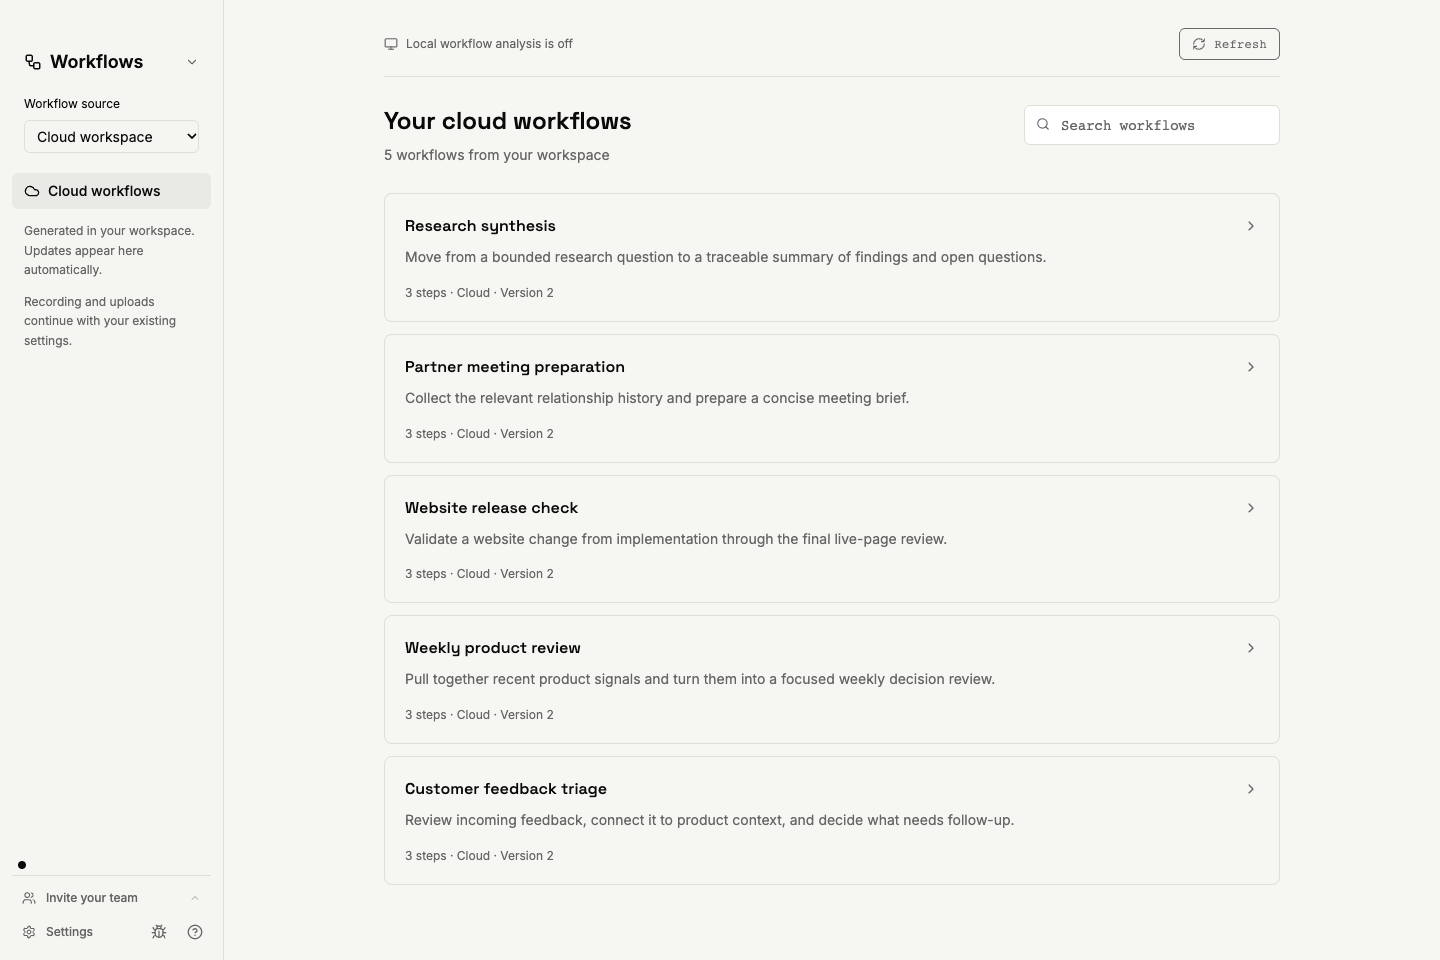
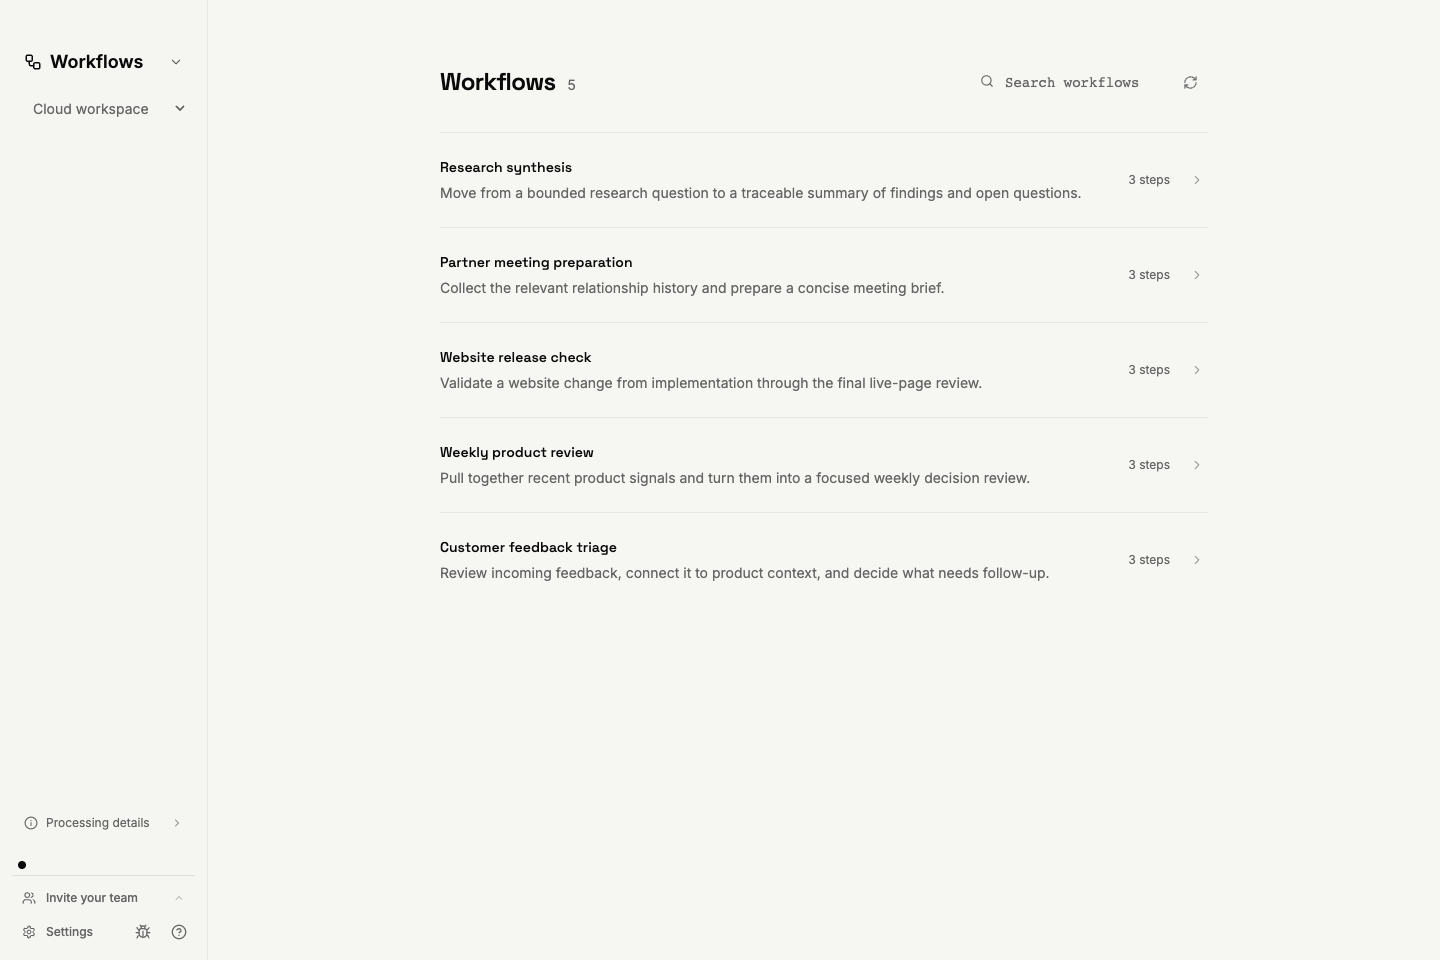
Simplify cloud workflow catalog and disclose processing details on demand

diff --git a/apps/screenpipe-app-tauri/components/workflows/cloud-workflows.tsx b/apps/screenpipe-app-tauri/components/workflows/cloud-workflows.tsx
@@ -2,7 +2,7 @@
 // https://screenpipe.com
 "use client";
 import { useEffect, useState } from "react";
-import { Cloud, RefreshCw, ArrowLeft, Search, ChevronRight, Monitor } from "lucide-react";
+import { RefreshCw, ArrowLeft, Search, ChevronRight, Info } from "lucide-react";
 import { Button } from "@/components/ui/button";
 import { Input } from "@/components/ui/input";
 import { loadCloudCatalog, type CloudWorkflowCatalog } from "@/lib/workflows/cloud-catalog";
@@ -74,36 +74,40 @@ export function CloudWorkflows({ active, token, onModeChange, recordingStatus, n
   const workflows = data?.workflows.filter(workflow => `${workflow.title} ${workflow.summary}`.toLowerCase().includes(query.toLowerCase())) ?? [];
   return <div className="ph-no-capture ph-mask relative flex h-full min-h-0 bg-background text-foreground [&_h1]:font-[family-name:var(--font-workflow-heading)] [&_h2]:font-[family-name:var(--font-workflow-heading)]">
     <div className="absolute inset-x-0 top-0 h-7" data-tauri-drag-region onMouseDown={event => { if (event.button === 0 && event.target === event.currentTarget) void getCurrentWindow().startDragging().catch(() => {}); }} />
-    <aside style={{ paddingTop: isMac && !fullscreen ? 40 : 28 }} className="flex w-56 shrink-0 flex-col border-r bg-muted/20 p-3 max-sm:w-40">
+    <aside style={{ paddingTop: isMac && !fullscreen ? 40 : 28 }} className="flex w-52 shrink-0 flex-col border-r border-border/60 bg-muted/10 p-3 max-sm:w-40">
       <ProductSwitcher mode="workflows" onChange={onModeChange} />
-      <div className="px-3 pt-3">{sourceControl}</div>
-      <div className="mt-5 flex items-center gap-2 rounded-md bg-foreground/5 px-3 py-2 text-sm font-medium"><Cloud size={16} />Cloud workflows</div>
-      <p className="px-3 pt-3 text-xs leading-relaxed text-muted-foreground">Generated in your workspace. Updates appear here automatically.</p>
-      <p className="px-3 pt-3 text-xs leading-relaxed text-muted-foreground">Recording and uploads continue with your existing settings.</p>
-      <div className="mt-auto">{recordingStatus}{navigationFooter?.({ openKeyboardShortcuts: () => setShortcuts(true) })}</div>
+      <div className="px-2 pt-2">{sourceControl}</div>
+      <div className="mt-auto">
+        <details className="group mx-2 mb-4 text-xs text-muted-foreground">
+          <summary className="flex cursor-pointer list-none items-center gap-2 rounded px-1 py-2 hover:text-foreground focus-visible:outline-none focus-visible:ring-1 focus-visible:ring-ring"><Info size={14} />Processing details<ChevronRight size={12} className="ml-auto transition-transform group-open:rotate-90" /></summary>
+          <div className="px-1 pb-2 pt-1 leading-relaxed"><p role="status">{localState === "off" ? "Local workflow analysis is off" : localState === "checking" ? "Turning off local workflow analysis…" : "Could not confirm local analysis is off"}</p><p className="mt-2">Workflows update from your cloud workspace. Recording and uploads keep your existing settings.</p></div>
+        </details>
+        {recordingStatus}{navigationFooter?.({ openKeyboardShortcuts: () => setShortcuts(true) })}
+      </div>
     </aside>
-    <main className="min-w-0 flex-1 overflow-y-auto px-8 py-7 max-sm:px-4">
-      <div className="mx-auto max-w-4xl">
-        <div className="mb-7 flex flex-wrap items-center justify-between gap-3 border-b pb-4">
-          <div className="flex items-center gap-2 text-xs text-muted-foreground" role="status"><Monitor size={14} />{localState === "off" ? "Local workflow analysis is off" : localState === "checking" ? "Turning off local workflow analysis…" : "Could not confirm local analysis is off"}</div>
-          <Button variant="outline" size="sm" disabled={loading} onClick={() => { setLocalState("checking"); setRevision(value => value + 1); }}><RefreshCw size={14} className="mr-2" />{loading ? "Refreshing…" : "Refresh"}</Button>
-        </div>
+    <main className="min-w-0 flex-1 overflow-y-auto px-10 pb-12 pt-16 max-sm:px-5">
+      <div className="mx-auto max-w-3xl">
         {localState === "error" && <div role="alert" className="mb-6 rounded-md border p-4 text-sm">Some local workflow jobs may still be running. <button className="underline" onClick={() => { setLocalState("checking"); setRevision(value => value + 1); }}>Retry stopping local analysis</button></div>}
-        {error ? <section role="alert" className="rounded-lg border p-6"><h1 className="text-xl font-semibold">Cloud workflows unavailable</h1><p className="mt-3 text-sm text-muted-foreground">{error}</p></section>
-        : loading && !data ? <p role="status">Loading cloud workflows…</p>
+        <header className="mb-8 flex flex-wrap items-center justify-between gap-4">
+          {selected ? <Button variant="ghost" size="sm" className="-ml-3" onClick={() => setSelectedId(null)}><ArrowLeft size={14} className="mr-2" />All workflows</Button> : <div className="flex items-baseline gap-3"><h1 className="text-2xl font-semibold tracking-tight">Workflows</h1>{data && !error && <span className="text-sm text-muted-foreground">{data.workflows.length}</span>}</div>}
+          <div className="flex items-center gap-2">
+            {!selected && !error && <div className="relative"><Search size={14} className="absolute left-2 top-2.5 text-muted-foreground" /><Input aria-label="Search cloud workflows" className="h-9 w-48 border-transparent bg-transparent pl-8 shadow-none placeholder:text-muted-foreground focus-visible:border-border max-sm:w-36" placeholder="Search workflows" value={query} onChange={event => setQuery(event.target.value)} /></div>}
+            <Button variant="ghost" size="icon" className="h-9 w-9 text-muted-foreground" aria-label="Refresh" title="Refresh workflows" disabled={loading} onClick={() => { setLocalState("checking"); setRevision(value => value + 1); }}><RefreshCw size={15} className={loading ? "animate-spin motion-reduce:animate-none" : ""} /></Button>
+          </div>
+        </header>
+        {error ? <section role="alert" className="py-10"><h2 className="text-base font-medium">Cloud workflows unavailable</h2><p className="mt-2 max-w-lg text-sm leading-relaxed text-muted-foreground">{error}</p></section>
+        : loading && !data ? <p role="status" className="py-10 text-sm text-muted-foreground">Loading workflows…</p>
         : selected ? <>
-          <Button variant="ghost" size="sm" className="mb-5" onClick={() => setSelectedId(null)}><ArrowLeft size={14} className="mr-2" />All workflows</Button>
-          <p className="mb-2 text-xs text-muted-foreground">Cloud workflow · Version {selected.version}</p>
-          <h1 className="text-2xl font-semibold">{selected.title}</h1>
-          <p className="mt-3 text-sm leading-relaxed text-muted-foreground">{selected.summary}</p>
-          {selected.trigger && <p className="mt-5 text-sm"><strong>Starts when: </strong>{selected.trigger}</p>}
-          <ol className="mt-7 space-y-3">{selected.steps.map((step, index) => <li key={index} className="flex gap-4 rounded-lg border p-5"><span className="text-sm text-muted-foreground">{index + 1}</span><div><h2 className="text-sm font-medium">{step.action}</h2>{step.app && <p className="mt-1 text-xs text-muted-foreground">{step.app}</p>}{step.detail && <p className="mt-3 text-sm leading-relaxed">{step.detail}</p>}{step.expected_result && <p className="mt-2 text-sm text-muted-foreground">Expected result: {step.expected_result}</p>}</div></li>)}</ol>
+          <h1 className="text-2xl font-semibold tracking-tight">{selected.title}</h1>
+          <p className="mt-3 max-w-2xl text-sm leading-relaxed text-muted-foreground">{selected.summary}</p>
+          {selected.trigger && <p className="mt-6 text-sm"><span className="text-muted-foreground">Starts when </span>{selected.trigger}</p>}
+          <ol className="mt-8 divide-y divide-border/60 border-y border-border/60">{selected.steps.map((step, index) => <li key={index} className="flex gap-5 py-6"><span className="w-4 shrink-0 pt-0.5 text-xs tabular-nums text-muted-foreground">{index + 1}</span><div><div className="flex flex-wrap items-baseline gap-x-3 gap-y-1"><h2 className="text-sm font-medium">{step.action}</h2>{step.app && <span className="text-xs text-muted-foreground">{step.app}</span>}</div>{step.detail && <p className="mt-2 text-sm leading-relaxed text-muted-foreground">{step.detail}</p>}{step.expected_result && <p className="mt-2 text-sm text-muted-foreground">Expected result: {step.expected_result}</p>}</div></li>)}</ol>
           {!selected.steps.length && <p className="mt-6 text-sm text-muted-foreground">This workflow does not have documented steps yet.</p>}
-          {selected.outcome && <p className="mt-6 text-sm"><strong>Outcome: </strong>{selected.outcome}</p>}
+          {selected.outcome && <p className="mt-6 text-sm"><span className="text-muted-foreground">Outcome </span>{selected.outcome}</p>}
+          <p className="mt-8 text-xs text-muted-foreground">Version {selected.version}</p>
         </> : <>
-          <div className="flex flex-wrap items-start justify-between gap-4"><div><h1 className="text-2xl font-semibold">Your cloud workflows</h1><p className="mt-2 text-sm text-muted-foreground">{data?.workflows.length ?? 0} workflows from your workspace</p></div><div className="relative"><Search size={14} className="absolute left-3 top-3 text-muted-foreground" /><Input aria-label="Search cloud workflows" className="w-64 pl-9 max-sm:w-full" placeholder="Search workflows" value={query} onChange={event => setQuery(event.target.value)} /></div></div>
-          <div className="mt-7 space-y-3">{workflows.map(workflow => <button key={workflow.id} onClick={() => setSelectedId(workflow.id)} className="block w-full rounded-lg border p-5 text-left transition-colors hover:bg-muted/40 focus-visible:outline-none focus-visible:ring-1 focus-visible:ring-ring"><div className="flex items-center justify-between gap-4"><h2 className="text-base font-medium">{workflow.title}</h2><ChevronRight size={16} className="shrink-0 text-muted-foreground" /></div><p className="mt-2 text-sm leading-relaxed text-muted-foreground">{workflow.summary}</p><p className="mt-4 text-xs text-muted-foreground">{workflow.steps.length} steps · Cloud · Version {workflow.version}</p></button>)}</div>
-          {!workflows.length && <section className="mt-12 text-center"><Cloud size={26} className="mx-auto text-muted-foreground" /><h2 className="mt-4 text-lg font-medium">{query ? "No matching workflows" : "No cloud workflows yet"}</h2><p className="mx-auto mt-2 max-w-md text-sm leading-relaxed text-muted-foreground">{query ? "Try another search." : "Workflows will appear after your workspace finishes analyzing uploaded activity. Your admin can check the cloud runner in the workspace."}</p></section>}
+          <div className="divide-y divide-border/60 border-t border-border/60">{workflows.map(workflow => <button key={workflow.id} onClick={() => setSelectedId(workflow.id)} className="group flex w-full items-center gap-5 py-6 text-left transition-colors hover:bg-muted/30 focus-visible:outline-none focus-visible:ring-1 focus-visible:ring-inset focus-visible:ring-ring"><div className="min-w-0 flex-1"><h2 className="text-sm font-medium">{workflow.title}</h2><p className="mt-1.5 truncate text-sm text-muted-foreground">{workflow.summary}</p></div><span className="shrink-0 text-xs tabular-nums text-muted-foreground max-sm:hidden">{workflow.steps.length ? `${workflow.steps.length} steps` : "Discovered"}</span><ChevronRight size={14} className="mr-1 shrink-0 text-muted-foreground/60 group-hover:text-foreground" /></button>)}</div>
+          {!workflows.length && <section className="py-16"><h2 className="text-base font-medium">{query ? "No matching workflows" : "No cloud workflows yet"}</h2><p className="mt-2 max-w-md text-sm leading-relaxed text-muted-foreground">{query ? "Try another search." : "Workflows will appear here after your workspace analyzes uploaded activity."}</p></section>}
         </>}
       </div>
     </main>

diff --git a/apps/screenpipe-app-tauri/components/workflows/cloud-workflows.test.tsx b/apps/screenpipe-app-tauri/components/workflows/cloud-workflows.test.tsx
@@ -14,6 +14,7 @@ it("renders cloud detail and search without any local analysis controls", async 
   render(<CloudWorkflows {...props} api={api()} />);
   fireEvent.click(await screen.findByRole('button', { name: /Review a draft/ }));
   expect(await screen.findByRole('heading', { name: 'Open sources' })).toBeVisible();
+  fireEvent.click(screen.getByText('Processing details'));
   expect(screen.getByText('Local workflow analysis is off')).toBeVisible();
   expect(screen.queryByRole('switch', { name: 'Automatic updates' })).not.toBeInTheDocument();
   fireEvent.click(screen.getByRole('button', { name: 'All workflows' }));
@@ -24,6 +25,7 @@ it("does not claim off until stopping succeeds; retries partial failure", async 
   const service = api(); vi.mocked(service.stopLocal).mockRejectedValueOnce(new Error('offline'));
   render(<CloudWorkflows {...props} api={service} />);
   fireEvent.click(await screen.findByRole('button', { name: 'Retry stopping local analysis' }));
+  fireEvent.click(screen.getByText('Processing details'));
   expect(await screen.findByText('Local workflow analysis is off')).toBeVisible();
   expect(service.stopLocal).toHaveBeenCalledTimes(2);
 });

diff --git a/apps/screenpipe-app-tauri/components/workflows/integrated-workflows.tsx b/apps/screenpipe-app-tauri/components/workflows/integrated-workflows.tsx
@@ -120,8 +120,8 @@ export function IntegratedWorkflows(props: Parameters<typeof DeviceWorkflows>[0]
     catch { setError("Could not save the workflow source. Try again."); }
     finally { setSaving(false); }
   }
-  const sourceControl = <label className="flex flex-col gap-2 text-xs">Workflow source
-    <select aria-label="Workflow source" className="w-full rounded-md border bg-transparent px-2 py-1.5 text-sm" value={source} disabled={saving} onChange={event => void change(event.target.value as "device" | "cloud")}>
+  const sourceControl = <label className="flex flex-col gap-2 text-xs"><span className="sr-only">Workflow source</span>
+    <select aria-label="Workflow source" className="w-full rounded-md border border-transparent bg-transparent px-2 py-1.5 text-sm text-muted-foreground hover:bg-muted/40 focus-visible:outline-none focus-visible:ring-1 focus-visible:ring-ring" value={source} disabled={saving} onChange={event => void change(event.target.value as "device" | "cloud")}>
       <option value="cloud">Cloud workspace</option><option value="device">This device</option>
     </select>
     {error && <span role="alert">{error}</span>}
